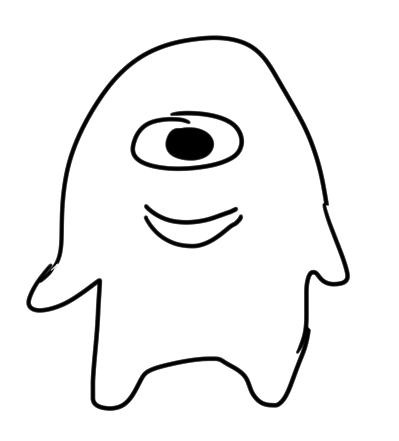
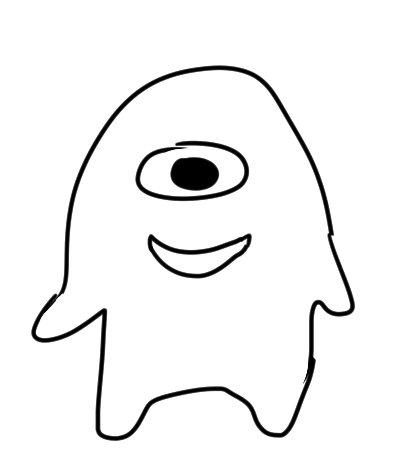
update vocMon visual when lv up

diff --git a/index.js b/index.js
@@ -79,6 +79,18 @@ function updateExpDisplay() {
 	expLevel.textContent = `Level ${currentLevel} (${currentExp}/${expRequirements[currentLevel] || 1})`;
 	const nextLevelExp = expRequirements[currentLevel] || 1; // Avoid division by zero
 	expBarFill.style.width = `${(currentExp / nextLevelExp) * 100}%`;
+
+	// Update vocMon image based on level
+	const vocMonImage = document.querySelector("#vocMonContainer img");
+	if (currentLevel === 2) {
+		vocMonImage.src = "res/img/vocabster_chara2.png";
+	} else if (currentLevel === 3) {
+		vocMonImage.src = "res/img/vocabster_chara3.png";
+	} else if (currentLevel === 4) {
+		vocMonImage.src = "res/img/vocabster_chara4.png";
+	} else if (currentLevel === 5) {
+		vocMonImage.src = "res/img/vocabster_chara5.png";
+	}
 }
 
 const minLives = 1;
